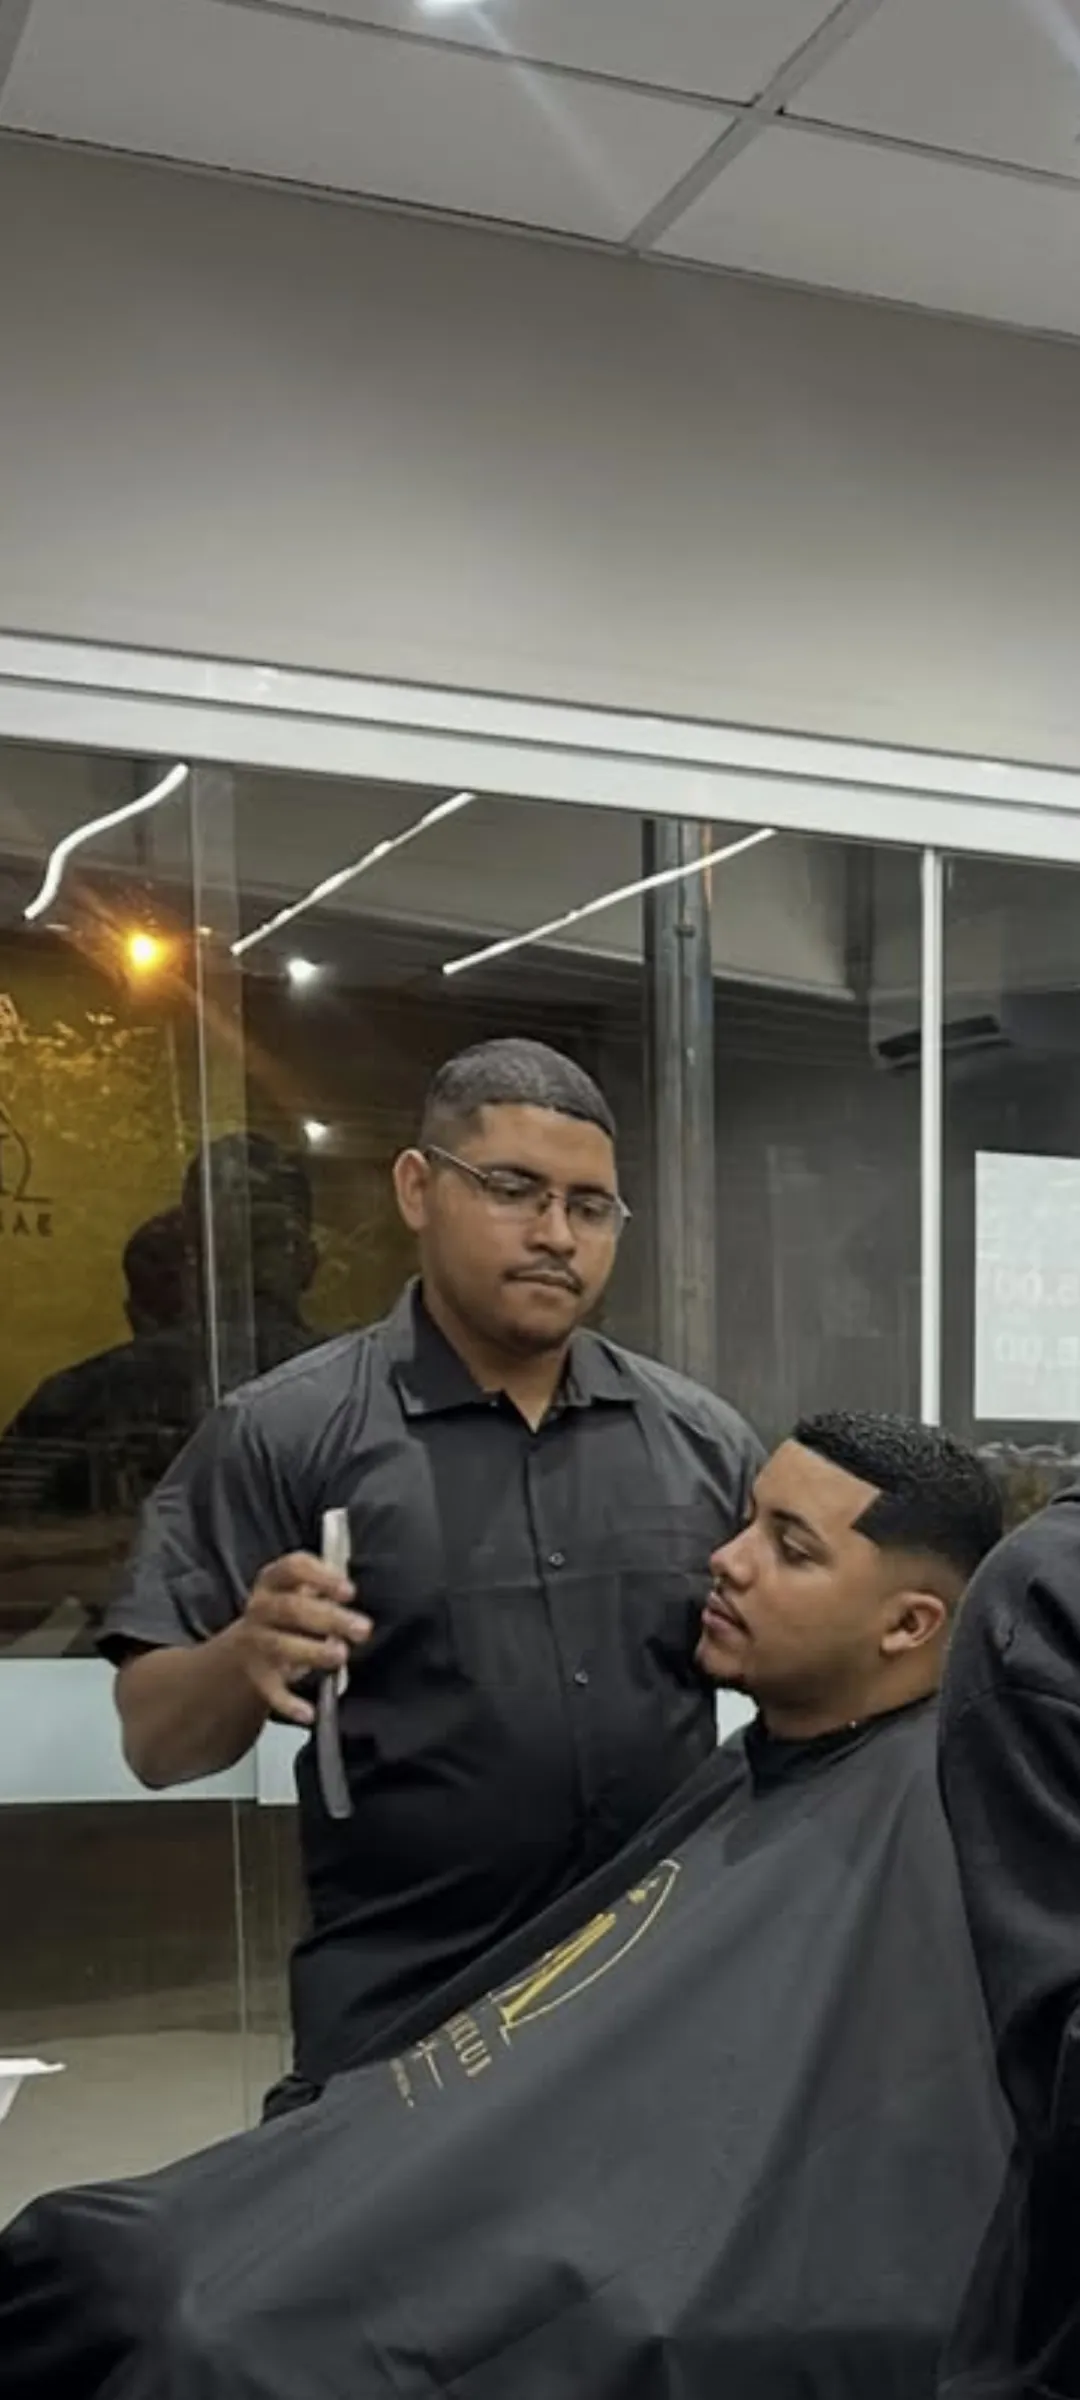
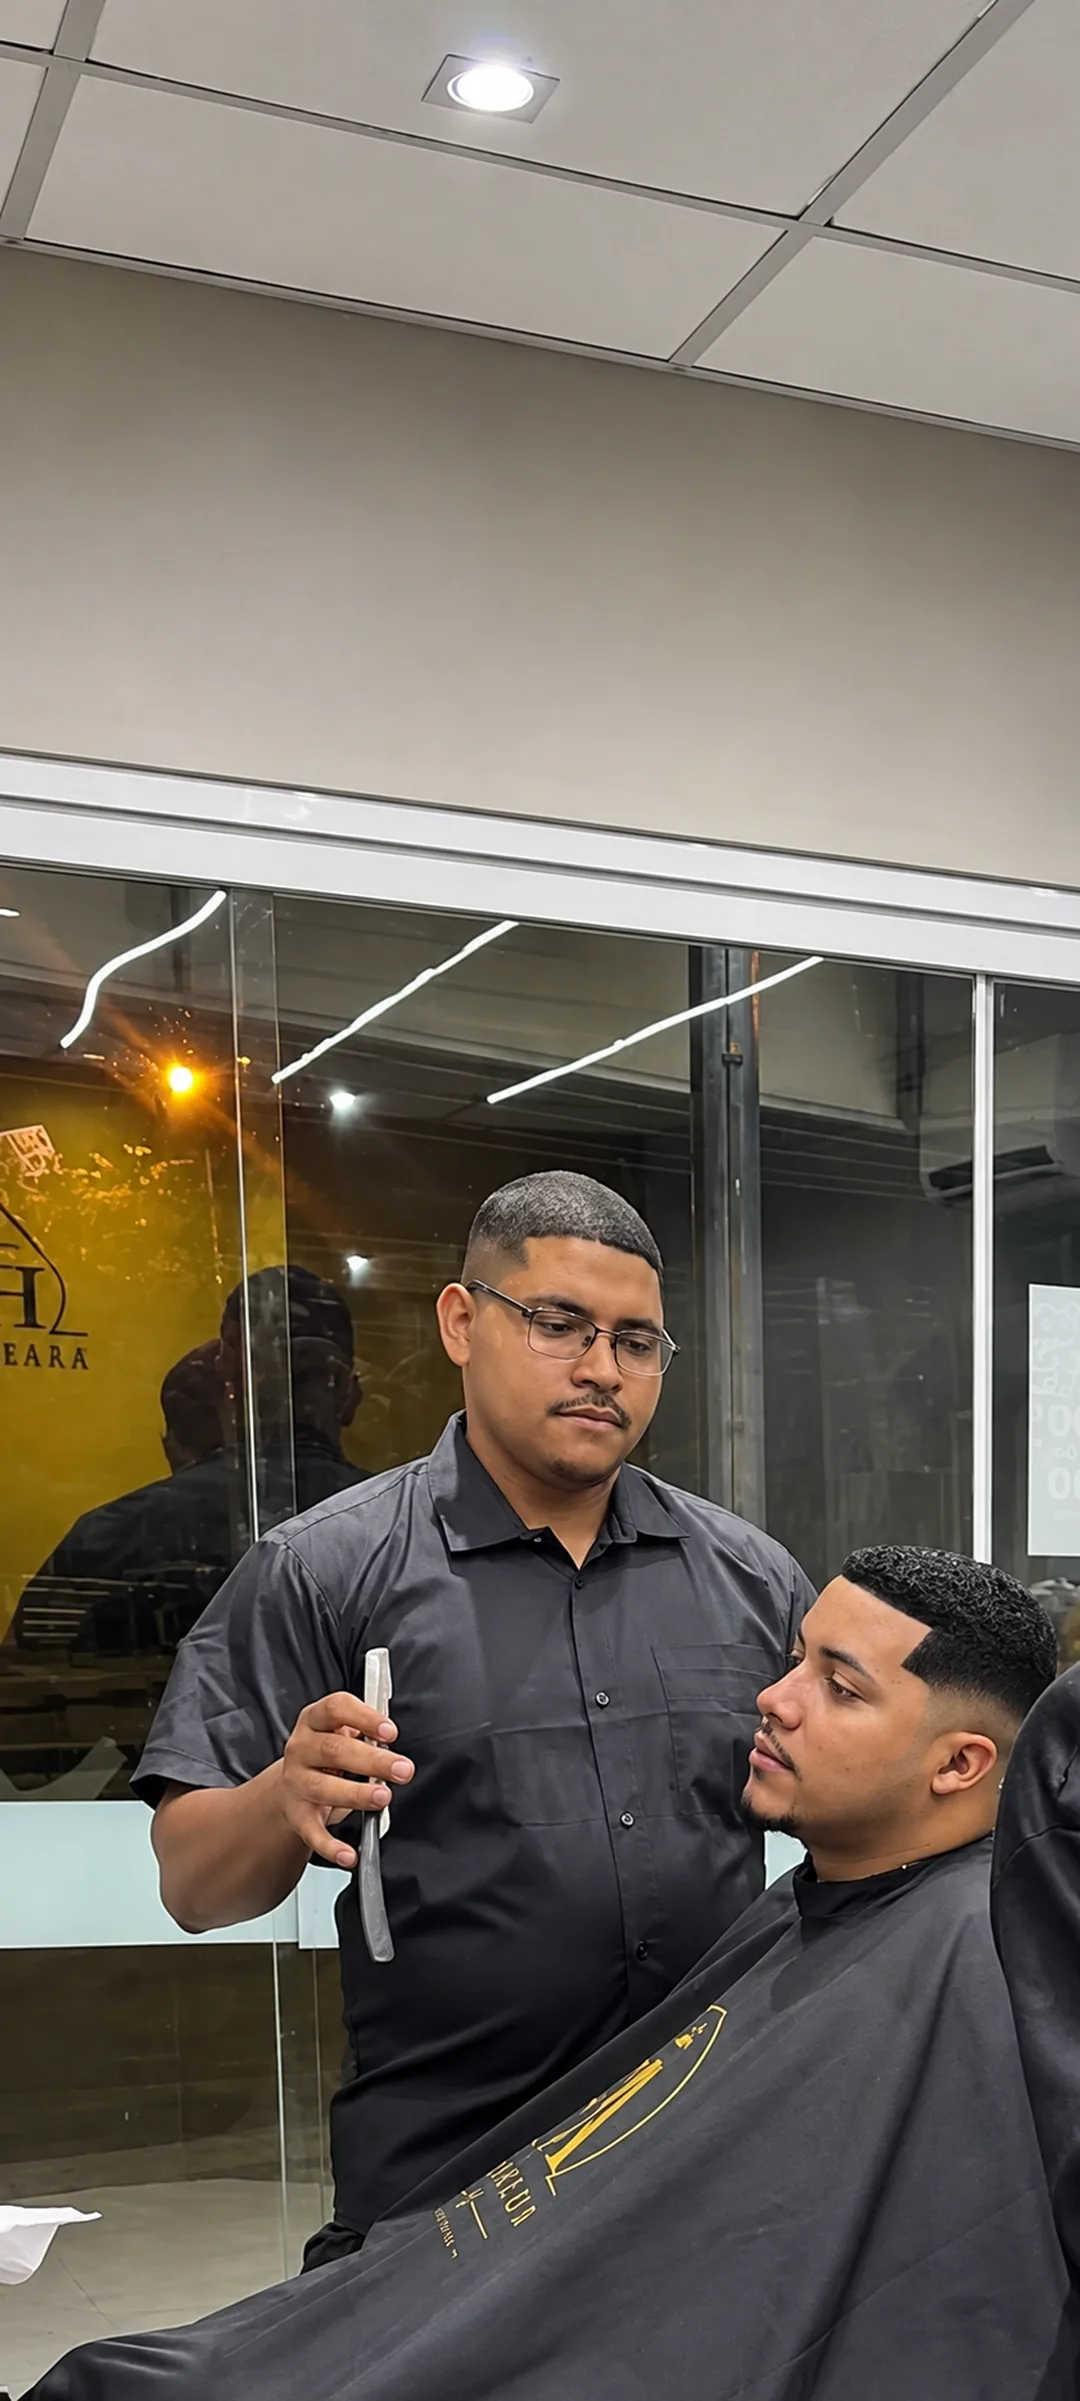
Prévia Fia: nova foto do topo
Claude-Session: https://claude.ai/code/session_017zB9ttVK5FqjAMDbZZQ3H9

diff --git a/previas/fia-barber-club/index.html b/previas/fia-barber-club/index.html
@@ -84,7 +84,7 @@ nav a:hover{color:var(--gold)}
 .hero::before{content:"";position:absolute;inset:0;z-index:-1;background:
   linear-gradient(90deg,rgba(7,7,6,.88) 0%,rgba(7,7,6,.62) 48%,rgba(7,7,6,.5) 100%),
   linear-gradient(180deg,rgba(7,7,6,.55) 0%,rgba(7,7,6,.35) 50%,var(--ink) 100%)}
-@media (max-width:880px){.hero>img.bg{inset:0 0 auto 0;height:850px;object-position:50% 50%}
+@media (max-width:880px){.hero>img.bg{inset:-75px 0 auto 0;height:925px;object-position:50% 50%}
   .hero::before{background:linear-gradient(180deg,rgba(7,7,6,.62) 0,rgba(7,7,6,.5) 330px,rgba(7,7,6,.5) 470px,rgba(7,7,6,.84) 610px,var(--ink) 845px)}
   .hero-grid>div:first-child{margin-top:clamp(90px,26vw,150px)}}
 .hero-grid{display:grid;grid-template-columns:minmax(0,1.15fr) minmax(0,.85fr);gap:clamp(24px,5vw,72px);align-items:center;padding-top:clamp(40px,7vw,96px);padding-bottom:clamp(48px,8vw,104px)}
@@ -345,7 +345,7 @@ body.in-app #app{display:block}
 <main id="topo">
 
   <div class="hero">
-    <img class="bg" src="assets/hero.webp" alt="Matheus, dono da Fia Barber Club, atendendo um cliente" width="1080" height="2400">
+    <img class="bg" src="assets/hero.webp" alt="Matheus, dono da Fia Barber Club, atendendo um cliente" width="1080" height="2401">
     <div class="wrap hero-grid">
       <div>
         <span class="caps">Barbearia por assinatura</span>
